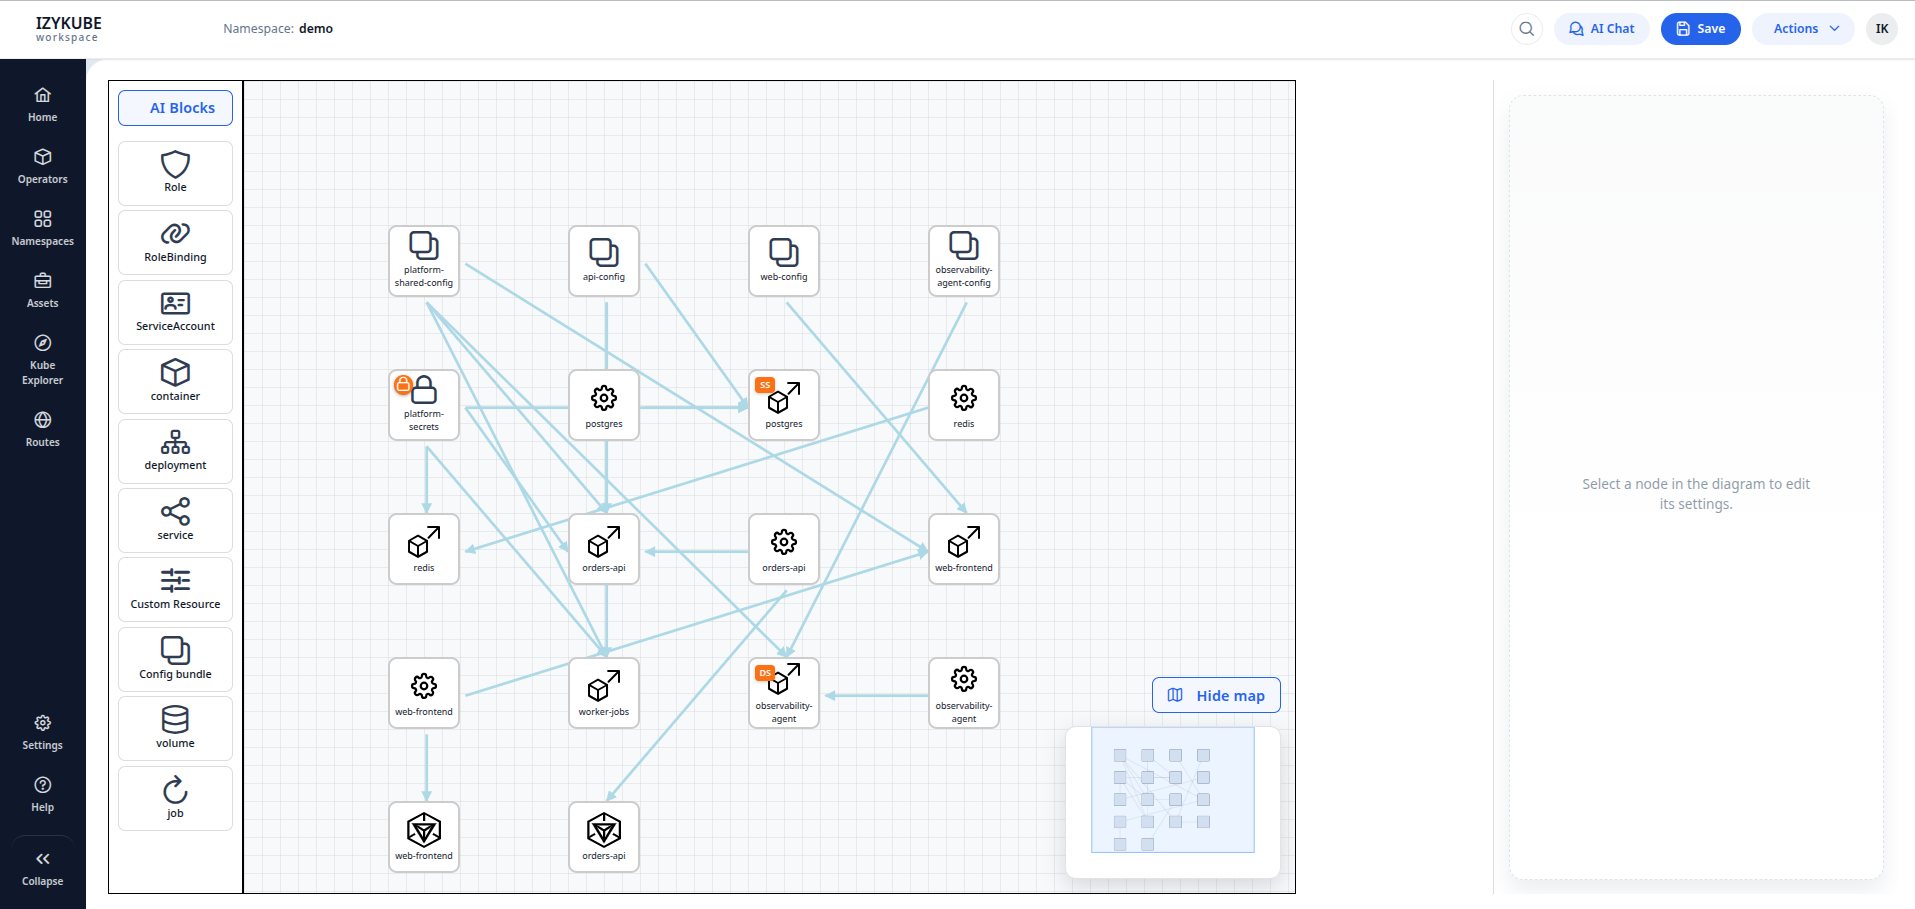
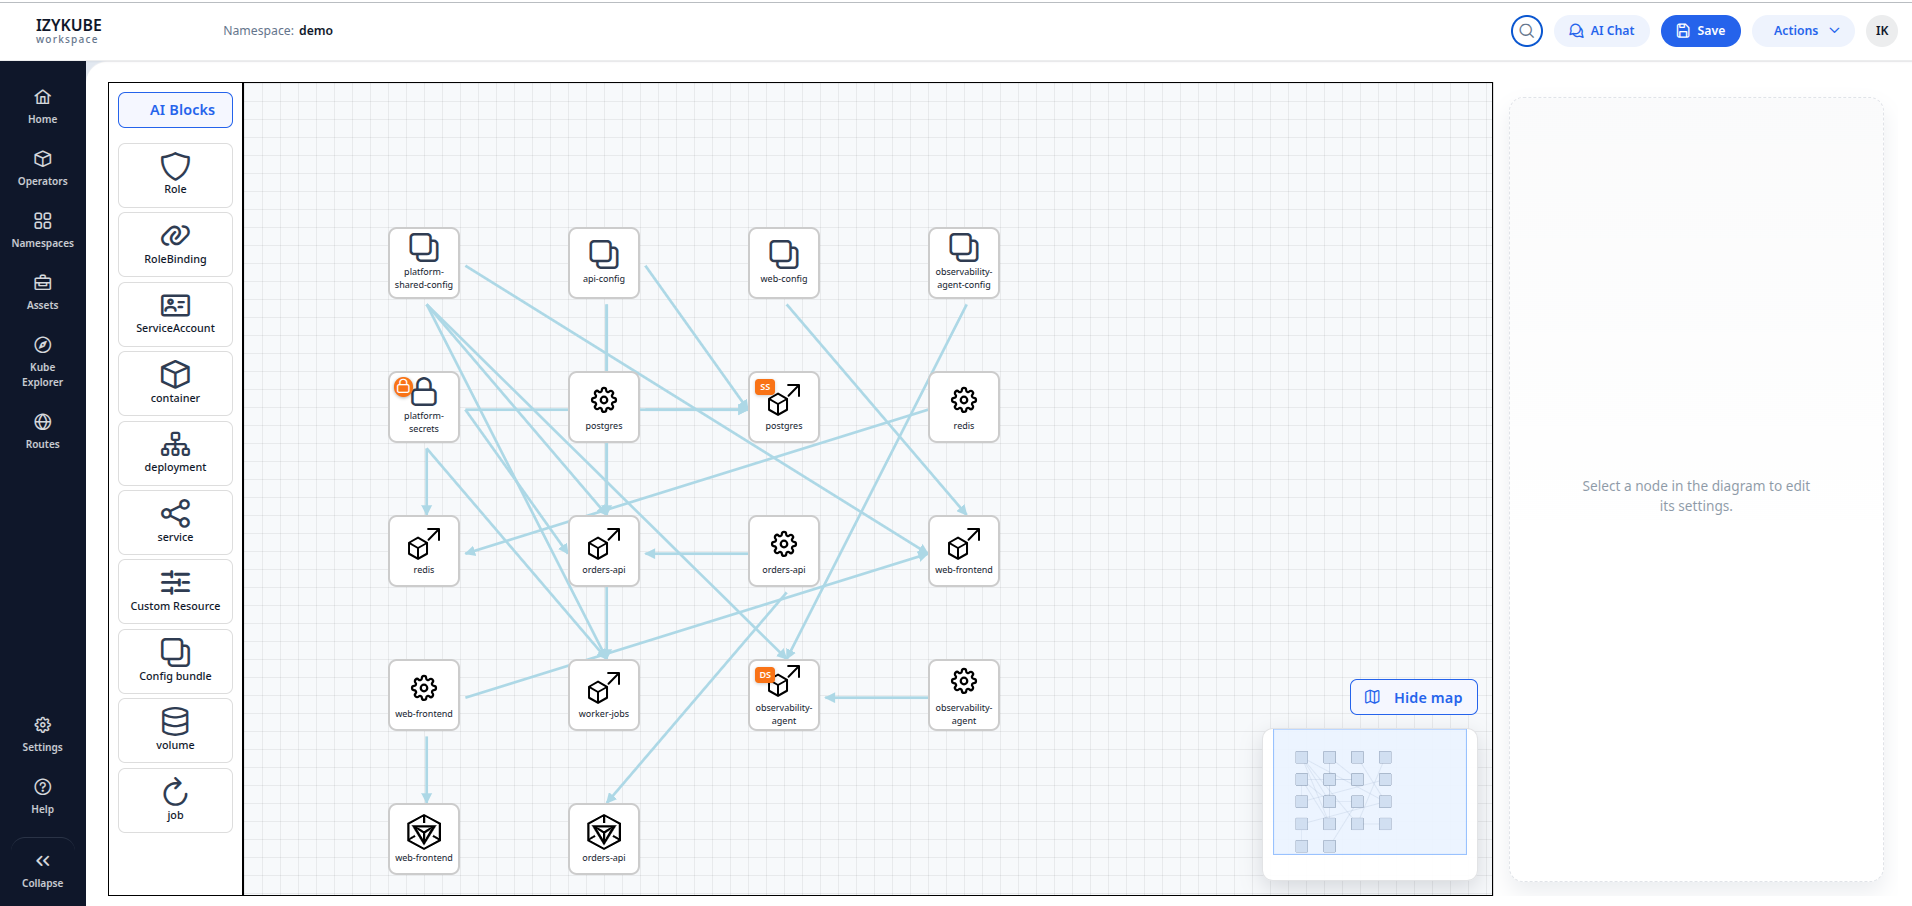
[No Jira] Fixed diagram save error

diff --git a/frontend/src/app/diagram/diagram.component.scss b/frontend/src/app/diagram/diagram.component.scss
@@ -19,7 +19,7 @@
   height: 100%;
 }
 
- .container {
+ .diagram-layout {
   display: flex;
   height: 100%;
   width: 100%;
@@ -798,7 +798,7 @@ svg line {
 }
 
 @media (max-width: 768px) {
-  .container {
+  .diagram-layout {
     flex-direction: column;
     height: 70vh;
   }

diff --git a/frontend/src/app/diagram/diagram.component.html b/frontend/src/app/diagram/diagram.component.html
@@ -1,4 +1,4 @@
-<div class="container" #container>
+<div class="diagram-layout" #container>
   <div class="first-column" #paletteContainer>
     <div class="palette-actions">
       <button

diff --git a/backend/src/main/java/com/izylife/izykube/configuration/MongoConfig.java b/backend/src/main/java/com/izylife/izykube/configuration/MongoConfig.java
@@ -2,14 +2,30 @@ package com.izylife.izykube.configuration;
 
 import com.izylife.izykube.model.AssetTypeReadConverter;
 import com.izylife.izykube.model.AssetTypeWriteConverter;
+import org.springframework.beans.factory.config.BeanPostProcessor;
 import org.springframework.context.annotation.Bean;
 import org.springframework.context.annotation.Configuration;
+import org.springframework.data.mongodb.core.convert.MappingMongoConverter;
 import org.springframework.data.mongodb.core.convert.MongoCustomConversions;
 
 import java.util.Arrays;
 
 @Configuration
 public class MongoConfig {
+
+
+    @Bean
+    public BeanPostProcessor mappingMongoConverterCustomizer() {
+        return new BeanPostProcessor() {
+            @Override
+            public Object postProcessAfterInitialization(Object bean, String beanName) {
+                if (bean instanceof MappingMongoConverter converter) {
+                    converter.setMapKeyDotReplacement("．");
+                }
+                return bean;
+            }
+        };
+    }
 
     @Bean
     public MongoCustomConversions mongoCustomConversions() {

diff --git a/backend/src/main/java/com/izylife/izykube/services/ClusterService.java b/backend/src/main/java/com/izylife/izykube/services/ClusterService.java
@@ -146,8 +146,8 @@ public class ClusterService {
                     .build();
 
         } catch (Exception e) {
-            log.error("Error updating cluster: " + e.getMessage());
-            return null;
+            log.error("Error updating cluster", e);
+            throw e;
         }
     }
 
